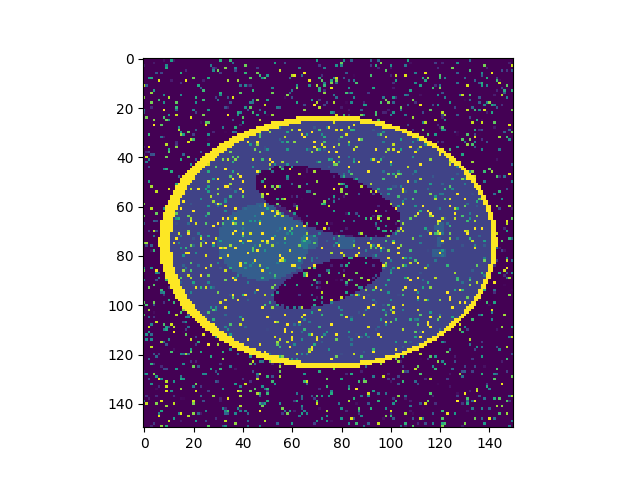
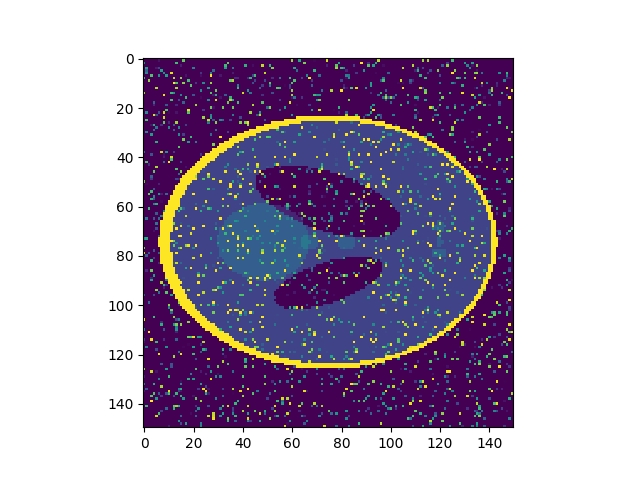
I should have used cvx.tv from the start!!

Changed region(s): [[0.2188, 0.125, 0.8125, 0.9062]]

diff --git a/hw8pb3.py b/hw8pb3.py
@@ -3,31 +3,6 @@ import numpy as np
 import cvxpy as cvx
 import matplotlib.pyplot as plt
 
-def L(X):
-    n1, n2 = 15, 15
-    In1 = np.identity(n1)
-    In2 = np.identity(n2)
-    Dn1 = -1*np.identity(n1)
-    Dn2 = -1*np.identity(n2)
-    for i in range(len(Dn1)):
-        for j in range(len(Dn1[i])):
-            if j == i + 1:
-                Dn1[i][j] = 1
-    for i in range(len(Dn2)):
-        for j in range(len(Dn2[i])):
-            if j == i + 1:
-                Dn2[i][j] = 1
-
-    Lh = np.kron(Dn2, In2)
-    Lv = np.kron(In1, Dn1)
-    return np.vstack((Lh, Lv))
-
-def g(y):
-    gval = []
-    for yi in y:
-        gval.append(np.sqrt(yi[0]**2+yi[1]**2))
-    return np.sum(np.array(gval))
-
 if __name__ == '__main__':
     import h5py
     import numpy as np
@@ -37,12 +12,6 @@ if __name__ == '__main__':
     for k, v in f.items():
         Y[k] = np.array(v)
     Y = Y['Y']
-
-    # Save loaded image to check
-    plt.imshow(Y, vmin=0, vmax=1)
-    plt.draw()
-    plt.savefig('hw8pb3-normal.png')
-
 
     r, c = 150, 150
     Y_noisy = np.zeros([r, c])
@@ -62,18 +31,17 @@ if __name__ == '__main__':
     plt.imshow(Y_noisy, vmin=0, vmax=1)
     plt.draw()
     plt.savefig('hw8pb3-noisy.png')
-    tau = 0.25*Y_noisy_snorm
+    tau = 0.25
     tauV = cvx.Variable(1)
 
     x = cvx.Variable(r, c)
-    z = cvx.Variable(450, 225)
 
-    func = (0.5*cvx.sum_entries(cvx.norm2(Y_noisy - x)**2))
-    prob = cvx.Problem(cvx.Minimize(func), constraints=[L(x) == z, g(z) <= tauV, tauV == tau, 0 <= x, x <= 1])
+    func = (0.5*(cvx.norm2(x - Y_noisy)**2))
+    prob = cvx.Problem(cvx.Minimize(func), constraints=[cvx.tv(x) <= 0.25*cvx.tv(Y_noisy), 0 <= x, x <= 1])
     prob.solve(verbose=True)
-    # Save the result.
+    # Save the cleaned result.
     plt.clf()
     plt.draw()
-    plt.imshow(Y_noisy - x, vmin=0, vmax=1)
+    plt.imshow(x.value, vmin=0, vmax=1)
     plt.draw()
-    plt.savefig('hw8pb3-fixed.png')
+    plt.savefig('hw8pb3-clean.png')
